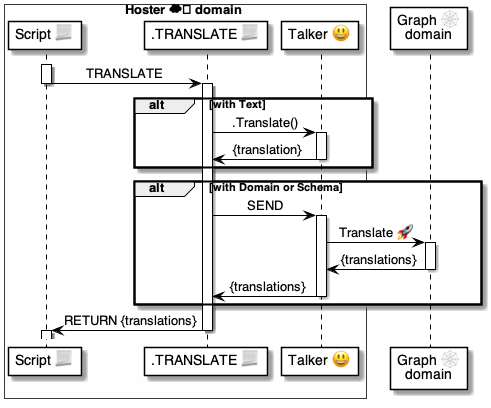
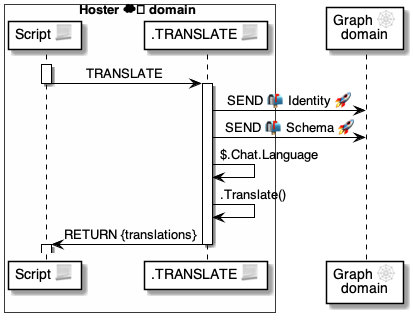
.

diff --git a/4 ⚙ Solution/37 Scripts 📃/📃 Commands ⌘/⌘ for methods 🤵/TRANSLATE 🈯/🈯 TRANSLATE 📃 script.md b/4 ⚙ Solution/37 Scripts 📃/📃 Commands ⌘/⌘ for methods 🤵/TRANSLATE 🈯/🈯 TRANSLATE 📃 script.md
@@ -12,10 +12,8 @@
 - RUN|.TRANSLATE:
     From: en-us
     To: pt-br
-    Domains: 
-      - any-domain.dom
-    Schemas: 
-      - any-authority.dom/ANY-SCHEMA
+    Domain: any-domain.dom
+    Schema: any-authority.dom/ANY-SCHEMA
     Text: Any ´not translatable´ text
 ```
 
@@ -34,30 +32,31 @@
     From: $.Script.Language
     To: $.Chat.Language, $.Msg.Language
 
-# Get the translations from Graph, if needed
-- IF|.AnyOf($Domains, $Schemas):
-    SEND >> $graph-translations:
-        Header:
-            To: $.Hosted.Graph
-            Subject: Translate@Graph
-        Body:
-            Language: $From
-            Domains: $Domains
-            Schemas: $Schemas
+# Get the domain info
+- IF|$Domain:
+    RUN|.TRANSLATE-DOMAIN >> $domain:
+        $Domain
+
+# Get the schema info
+- IF|$Domain:
+    RUN|.TRANSLATE-SCHEMA >> $schema:
+        $Schema
 
 # Translate the text, if any
 - IF|$Text:
-    PUT >> $text-translation:
-        Text: $Text.Translate($From, $To)
+    PUT >> $text:
+        $Text.Translate($From, $To)
 
 # Return the translations
-- RETURN:
-    $graph-translations
-    $text-translation
+- RETURN: 
+    Domain: $domain
+    Schema: $schema
+    Text: $text
 ```
 
 Uses||
 |-|-
 | [Commands ⌘](<../../../../35 💬 Chats/Scripts 📃/Command ⌘.md>) | [`ASSERT`](<../../⌘ for holders 🧠/ASSERT 🚦/🚦 ASSERT ⌘ cmd.md>) [`DEFAULT`](<../../⌘ for holders 🧠/DEFAULT 📭/📭 DEFAULT ⌘ cmd.md>) [`IF`](<../../⌘ for control ▶/IF ⤵/⤵ IF ⌘ cmd.md>) [`RETURN`](<../../⌘ for control ▶/RETURN ⤴/⤴ RETURN ⌘ cmd.md>) [`SEND`](<../../⌘ for messages 📨/SEND 📬/📬 SEND ⌘ cmd.md>)
 | [{Functions} 🐍](<../../../../35 💬 Chats/Scripts 📃/Function 🐍.md>) | [`.AnyOf`](<../../../📃 Functions 🐍/🐍 System 🔩 functions/🔩 {.AnyOf}.md>) [`.Translate`](<../../../📃 Functions 🐍/🐍 System 🔩 functions/🔩 {.Translate}.md>)
+| [Messages 📨](<../../../../30 🧩 Data/Messages 📨/📨 Message/📨 Message.md>) | [`Identity@Graph`](<../../../../45 🤲 Helper domains/Graphs 🕸/🕸🅰 Graph methods/👥🚀🕸 Identity.md>) [`Schema@Graph`](<../../../../45 🤲 Helper domains/Graphs 🕸/🕸🅰 Graph methods/👥🚀🕸 Schema.md>)
 |

diff --git a/4 ⚙ Solution/37 Scripts 📃/📃 Commands ⌘/⌘ for methods 🤵/TRANSLATE 🈯/scripts/Domain 📃 script.md b/4 ⚙ Solution/37 Scripts 📃/📃 Commands ⌘/⌘ for methods 🤵/TRANSLATE 🈯/scripts/Domain 📃 script.md
@@ -1,0 +1,39 @@
+# 🈯 TRANSLATE DOMAIN 📃 script
+
+
+## Script
+
+```yaml
+📃 .TRANSLATE-DOMAIN:
+
+# Get the Identity
+- SEND >> $identity:
+    Header:
+        To: $.Hosted.Graph
+        Subject: Identity@Graph
+    Body:
+        Domain: $Domain
+
+# Find a matching translation
+- SELECT >> $translation:
+    First: .Value
+    From: $identity.Translations
+    Where: .Key.Is($To)
+    
+# Prepare the response
+- SET|$return.Domain:
+    Title: $identity.Title
+    Description: $identity.Title
+    Translation: $translation.Default(
+        $domain.Title.Translate($To))
+
+# Return the domain translation
+- RETURN: $return
+```
+
+Uses||
+|-|-
+| [Commands ⌘](<../../../../../35 💬 Chats/Scripts 📃/Command ⌘.md>) | [`ASSERT`](<../../../⌘ for holders 🧠/ASSERT 🚦/🚦 ASSERT ⌘ cmd.md>)  [`RETURN`](<../../../⌘ for control ▶/RETURN ⤴/⤴ RETURN ⌘ cmd.md>) [`SELECT`](<../../../⌘ for holders 🧠/SELECT 🅾/🅾 SELECT ⌘ cmd.md>) [`SEND`](<../../../⌘ for messages 📨/SEND 📬/📬 SEND ⌘ cmd.md>) [`SET`](<../../../⌘ for holders 🧠/SET ↘/↘ SET ⌘ cmd.md>)
+| [{Functions} 🐍](<../../../../../35 💬 Chats/Scripts 📃/Function 🐍.md>) |  [`.Translate`](<../../../../📃 Functions 🐍/🐍 System 🔩 functions/🔩 {.Translate}.md>) [`.Key`](<../../../../📃 Functions 🐍/🐍 System 🔩 functions/🔩 {.Key}.md>) [`.Value`](<../../../../📃 Functions 🐍/🐍 System 🔩 functions/🔩 {.Value}.md>) [`.Default`](<../../../../📃 Functions 🐍/🐍 System 🔩 functions/🔩 {.Default}.md>)
+| [Messages 📨](<../../../../../30 🧩 Data/Messages 📨/📨 Message/📨 Message.md>) | [`Identity@Graph`](<../../../../../45 🤲 Helper domains/Graphs 🕸/🕸🅰 Graph methods/👥🚀🕸 Identity.md>) [`Schema@Graph`](<../../../../../45 🤲 Helper domains/Graphs 🕸/🕸🅰 Graph methods/👥🚀🕸 Schema.md>)
+|

diff --git a/4 ⚙ Solution/37 Scripts 📃/📃 Commands ⌘/⌘ for methods 🤵/TRANSLATE 🈯/scripts/Schema 📃 script.md b/4 ⚙ Solution/37 Scripts 📃/📃 Commands ⌘/⌘ for methods 🤵/TRANSLATE 🈯/scripts/Schema 📃 script.md
@@ -1,0 +1,32 @@
+# 🈯 TRANSLATE SCHEMA 📃 script
+
+
+## Script
+
+```yaml
+📃 .TRANSLATE-SCHEMA:
+
+# Get the schema info
+- SEND >> $schema:
+    Header:
+        To: $.Hosted.Graph
+        Subject: Schema@Graph
+    Body:
+        Schema: $Schema
+
+# Find a matching translation
+- SELECT >> $translation:
+    First: .Value
+    From: $schema.Translations
+    Where: .Key.Is($To)
+    
+# Prepare the response
+- SET|$return.Domain:
+    Title: $schema.Title
+    Description: $schema.Title
+    Translation: $translation.Default(
+        $schema.Title.Translate($To))
+
+# Return the domain translation
+- RETURN: $return
+```

diff --git a/4 ⚙ Solution/37 Scripts 📃/📃 Functions 🐍/🐍 System 🔩 functions/🔩 {.Key}.md b/4 ⚙ Solution/37 Scripts 📃/📃 Functions 🐍/🐍 System 🔩 functions/🔩 {.Key}.md
@@ -1,0 +1,10 @@
+<!-- TODO: beautify -->
+
+# 🔩 {.Key}
+
+> Works with [`.Value`](<🔩 {.Value}.md>)
+
+|Input|Output
+|-|-
+|`{A:1}.Key` | `A`
+|

diff --git a/4 ⚙ Solution/37 Scripts 📃/📃 Functions 🐍/🐍 System 🔩 functions/🔩 {.Value}.md b/4 ⚙ Solution/37 Scripts 📃/📃 Functions 🐍/🐍 System 🔩 functions/🔩 {.Value}.md
@@ -1,0 +1,11 @@
+<!-- TODO: beautify -->
+
+# 🔩 {.Value}
+
+> Works with .Key
+
+
+|Input|Output
+|-|-
+|`{A:1}.Key` | `1`
+|
